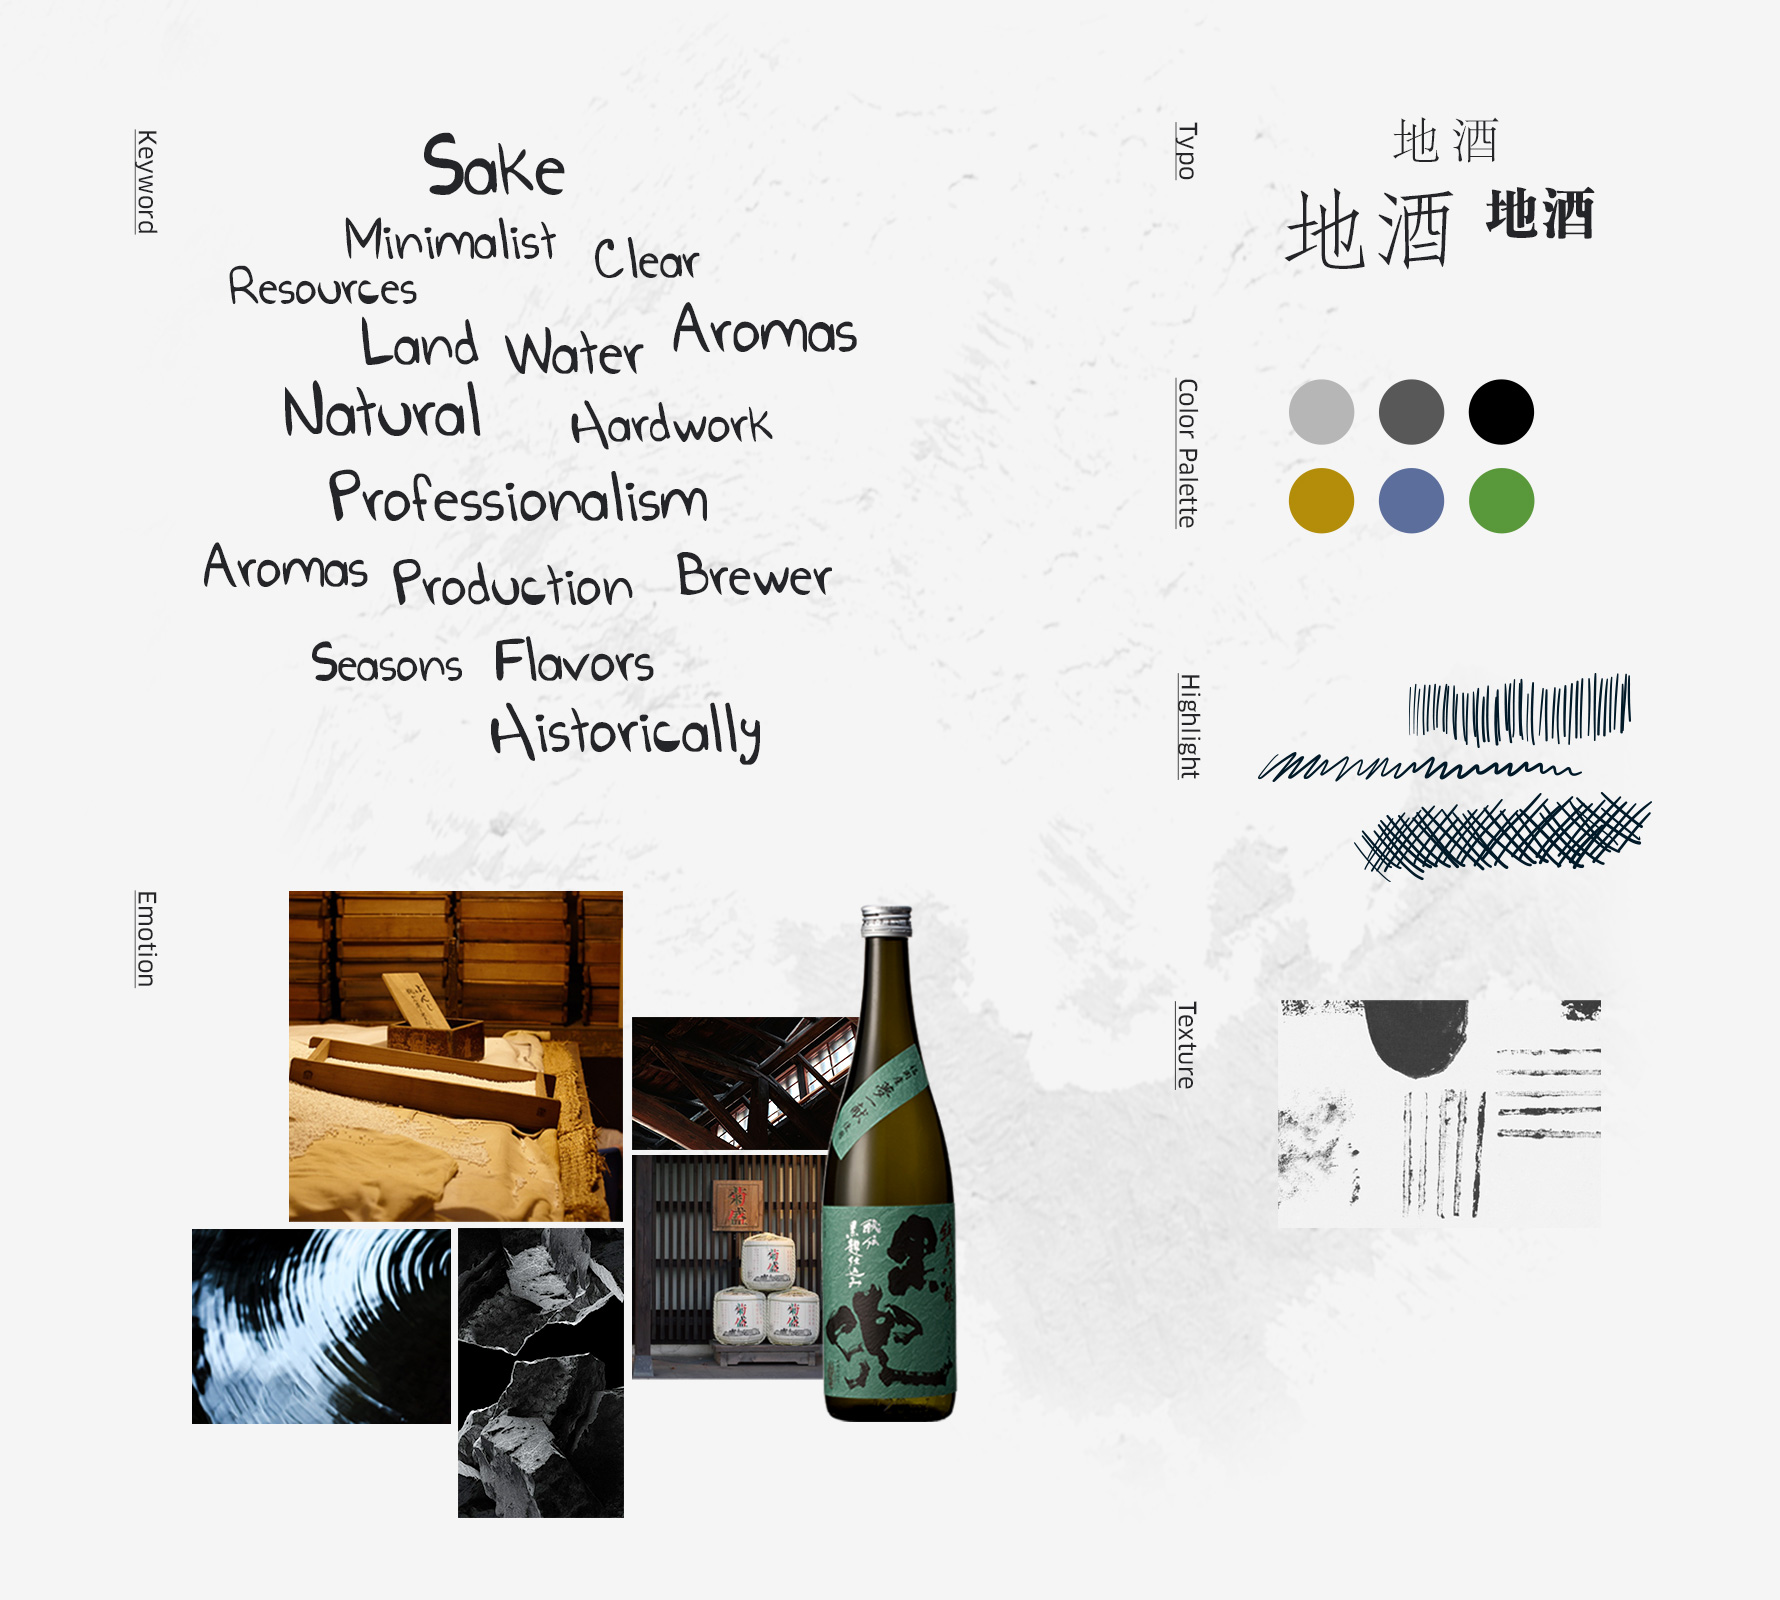
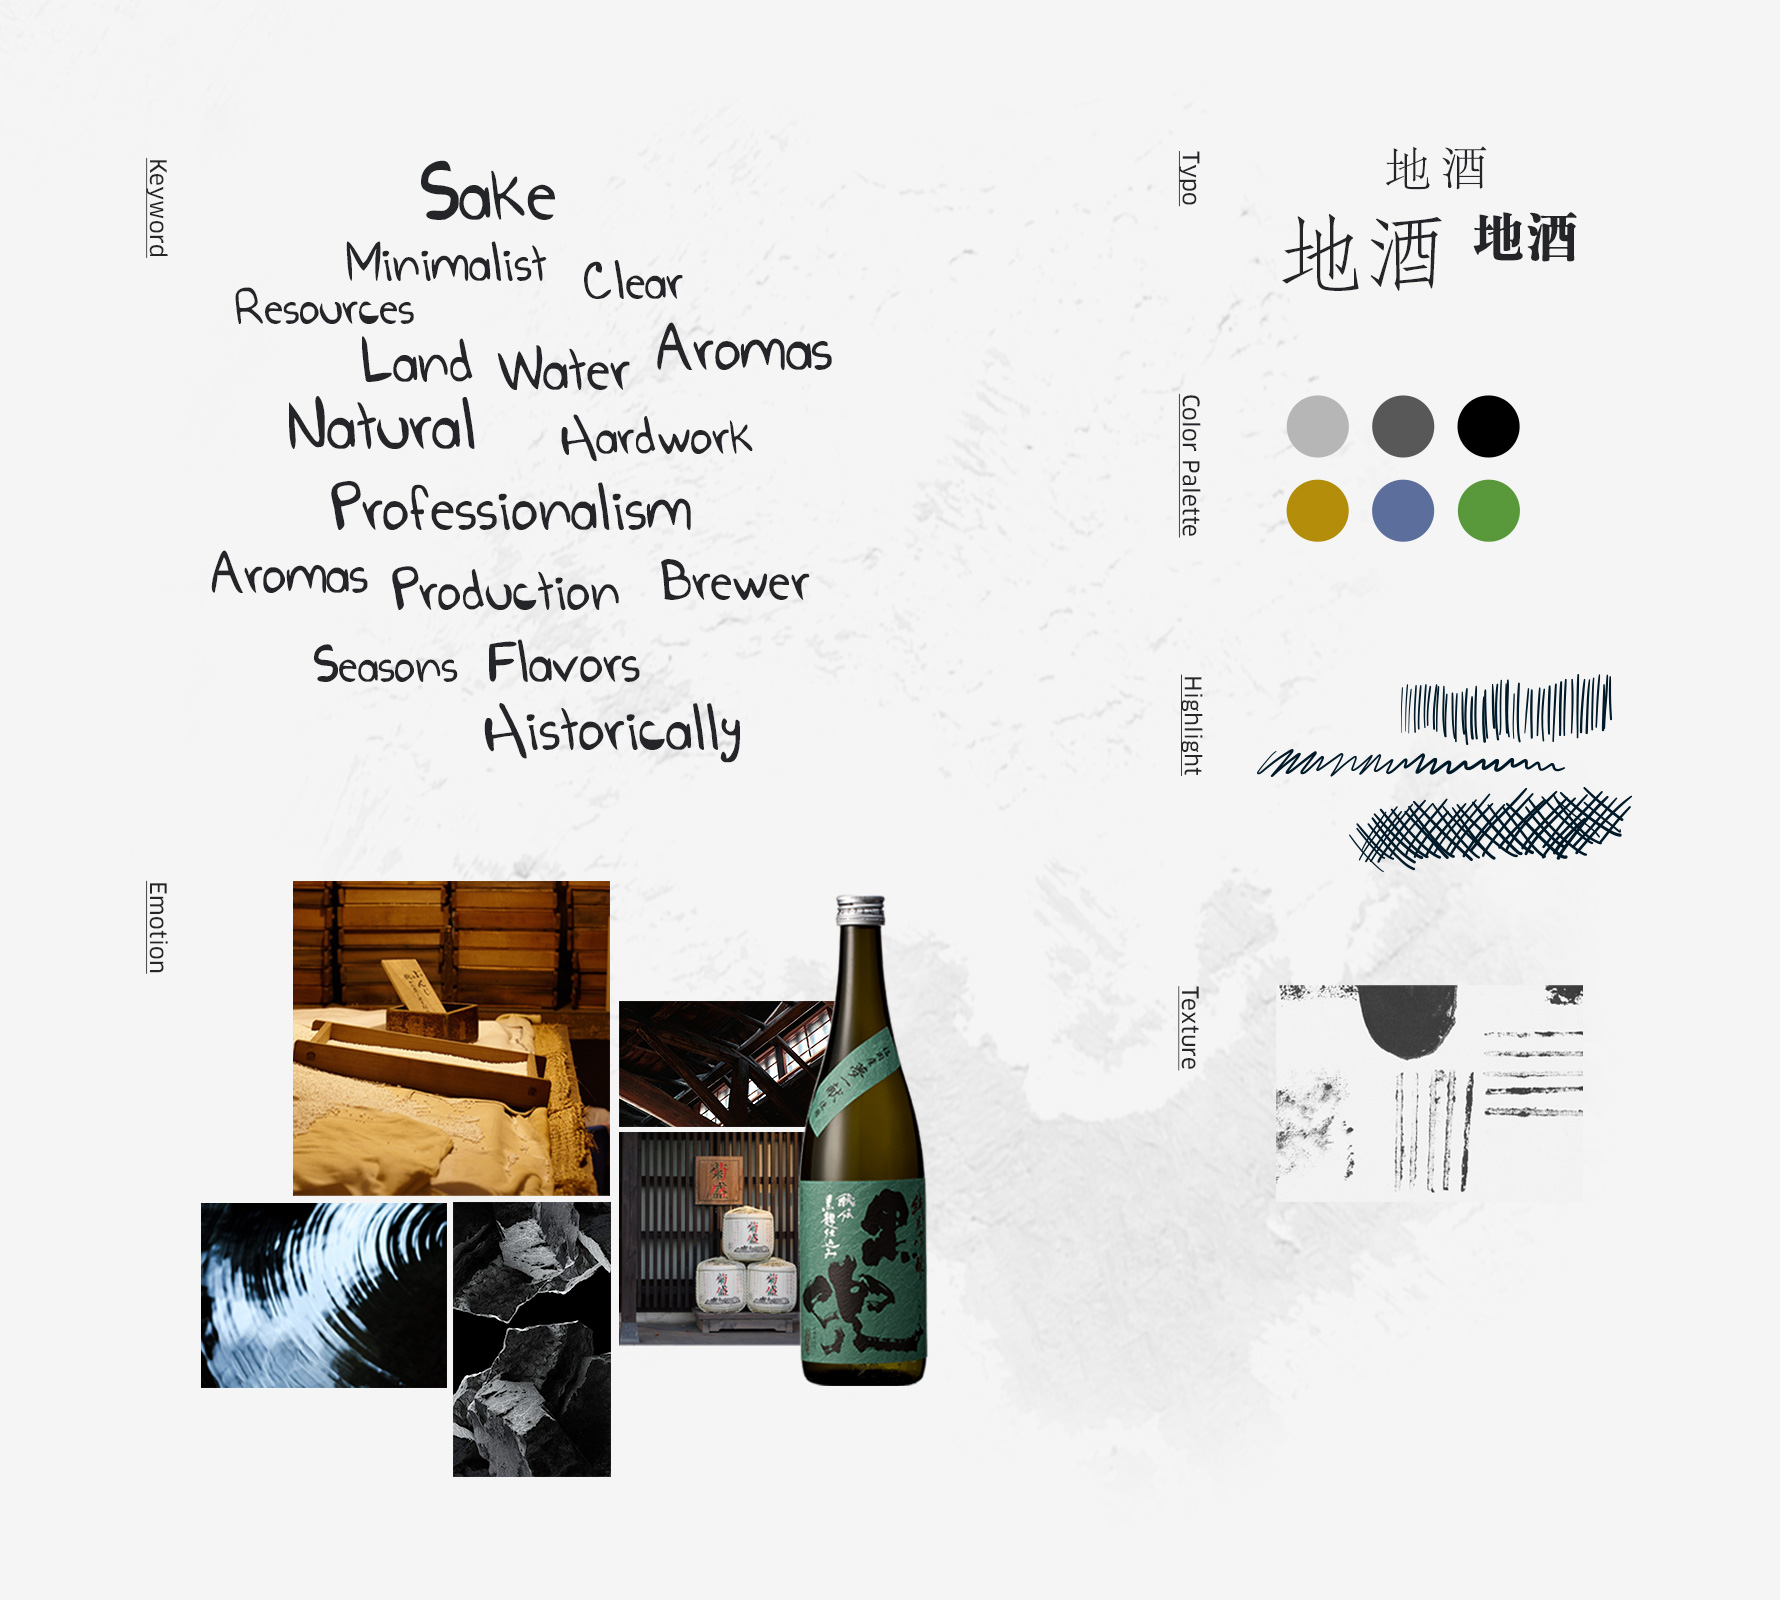
231123

diff --git a/stylesheets/projects/wa_sake.css b/stylesheets/projects/wa_sake.css
@@ -337,11 +337,11 @@
         align-items: center;
     }
 
-    .parallax-4 {
-        top: -8vh;
-        width: 65vw;
+    .parallax-4 img{
+        top: 14vh;
+        width: 38vw;
         z-index: 98;
-        left: 60%;
+        left: -6vw;
     }
 
     /*.parallax-2 img {
@@ -354,9 +354,9 @@
     }
 
     .parallax-5 img {
-        top: 21%;
-        left: -14vw;
-        width: 49vw;
+        top: -6vh;
+        left: -19vw;
+        width: 58vw;
         z-index: 99;
       /*display: none;*/
     }
